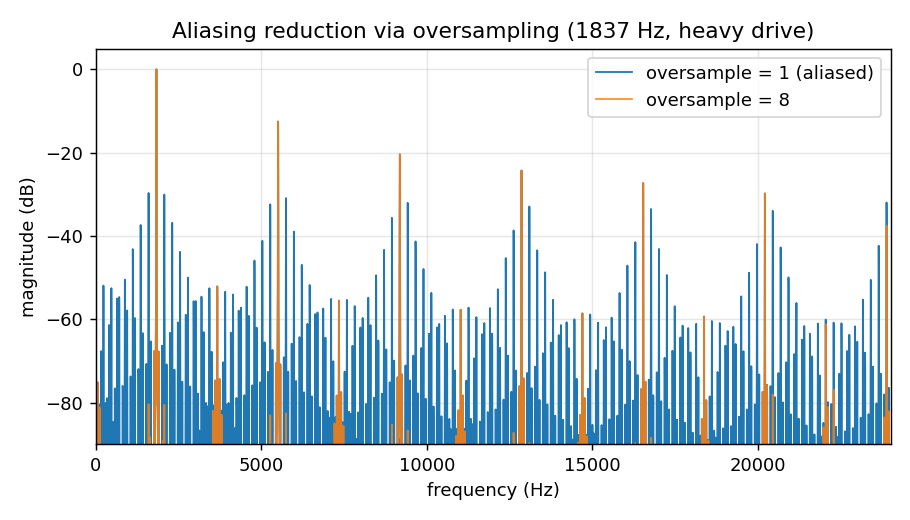
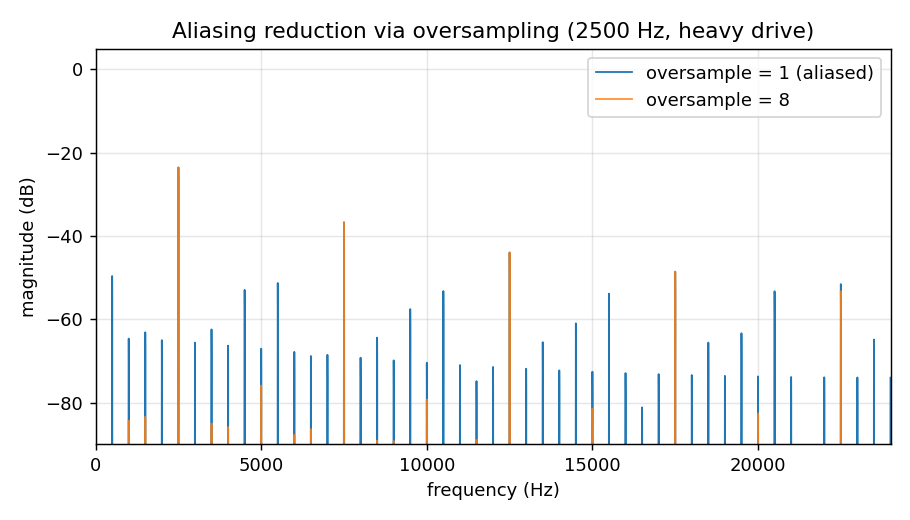
Change aliasing demo to 2500 Hz

Changed region(s): [[0.0923, 0.1538, 0.9846, 0.8615], [0.6154, 0.0308, 0.7077, 0.0923], [0.8308, 0.0308, 0.8615, 0.0615]]

diff --git a/demo.py b/demo.py
@@ -126,7 +126,8 @@ def fig_spectrum() -> None:
 def fig_aliasing() -> None:
     # High, non-divisor fundamental + heavy drive: harmonics above Nyquist fold
     # back to clearly inharmonic frequencies, making aliasing obvious.
-    x, sr = _sine(freq=1837.0, dur=0.3)
+    # 48000 / 2500 = 19.2 (non-integer), so aliased components land off-harmonic.
+    x, sr = _sine(freq=2500.0, dur=0.3)
     params = dict(DEFAULTS)
     params.update(gain=60.0)
     y1 = ff.process(x, sr, **{**params, "oversample": 1})
@@ -136,7 +137,7 @@ def fig_aliasing() -> None:
     plt.figure(figsize=(7, 4))
     plt.plot(f1, s1, label="oversample = 1 (aliased)", lw=1.0)
     plt.plot(f8, s8, label="oversample = 8", lw=1.0, alpha=0.85)
-    plt.title("Aliasing reduction via oversampling (1837 Hz, heavy drive)")
+    plt.title("Aliasing reduction via oversampling (2500 Hz, heavy drive)")
     plt.xlabel("frequency (Hz)")
     plt.ylabel("magnitude (dB)")
     plt.xlim(0, sr / 2)
